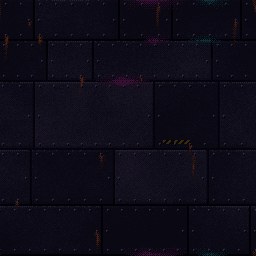
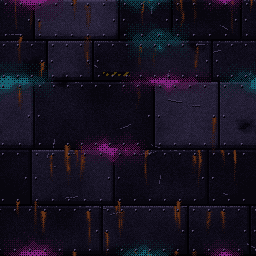
Grime up the Neon District steel so the plates read like Castle's stone
The steel tile gets a wider 22-color palette: each plate its own shade,
deeper seams and bevels, patchy dithered shadow, oil stains, scratches,
heavier rust running down from rivets and seams, and bigger, brighter
magenta and cyan staining. Contrast comes as much from deep shadow as from
bright detail, so faint labels still hold 4.8:1 or better on the average.

Each skin now scales the backdrop strengths by its own Texture::strength
(both 1.0, so Castle paints exactly as before). The skin_shots mock names
the steel when it renders Neon District.

Claude-Session: https://claude.ai/code/session_01GugngQZDNhaSXVJJZ8z7fH

diff --git a/scripts/gen-neon-tile.py b/scripts/gen-neon-tile.py
@@ -1,16 +1,17 @@
 #!/usr/bin/env python3
 """Generate the Neon District skin's steel tile: assets/skins/neon-steel.png.
 
-Pixel art in a limited palette (at most 20 colors): grimy riveted steel
-plates in near-black violet, bevelled seams, rivets along the plate edges,
-rust bleeding from a few rivets, one short strip of worn hazard tape, faint
-scanlines, magenta and cyan neon staining that bleeds out of some seams,
-ordered (Bayer 8x8) dithered shadow and fine grain. Kept dark and low
-contrast so labels on top stay readable.
+Pixel art in a limited palette (at most 24 colors): grimy riveted steel
+plates in near-black violet, each plate its own shade, deep bevelled seams,
+rivets along the plate edges, patchy dithered shadow, oil stains, bright
+scratches, rust streaks running down from rivets and seams, one short strip
+of worn hazard tape, faint scanlines, and magenta and cyan neon staining
+bleeding out of some seams. The grime is as much deep shadow as bright
+detail, so the tile's average stays dark and labels on top stay readable.
 
 Seamless on every edge by construction: plate rows and widths sum to the
 tile size, the noise is periodic, the scanline period divides the tile, and
-every stamp (rivet, rust, stain, tape) writes its pixels mod the tile size.
+every stamp (rivet, rust, oil, scratch, stain, tape) writes its pixels mod the tile size.
 Every pixel is picked from the fixed palette, never blended.
 
 Usage:
@@ -29,15 +30,15 @@ SIZE = 256
 SEED = 11
 
 # Palette, darkest first within each group.
-SEAM_DEEP = 0x020106
-SEAM = 0x06040C
-STEEL = [0x0A0812, 0x0E0B18, 0x13101E, 0x181424, 0x1D182A]
-EDGE = 0x262033
-RIVET = 0x342D44
-RUST = [0x1C0E0D, 0x2E150F, 0x442013]
-TAPE = 0x3A2A0A
-PINK = [0x220A20, 0x3A0E34]
-CYAN = [0x071E24, 0x0B3139]
+SEAM_DEEP = 0x010003
+SEAM = 0x05030A
+STEEL = [0x08060E, 0x0D0A17, 0x13101F, 0x1A1628, 0x221D32, 0x2B253D, 0x352E4A]
+EDGE = 0x433A58
+RIVET = 0x655A7E
+RUST = [0x1E0E0C, 0x331710, 0x4C2413, 0x643318]
+TAPE = 0x4E3A0C
+PINK = [0x2C0B2A, 0x521348, 0x80207A]
+CYAN = [0x08232A, 0x0E3C47, 0x15606F]
 
 BAYER8 = np.array(
     [
@@ -131,19 +132,25 @@ def build():
     n = len(plates)
     seam = plate < 0
     pid = np.where(seam, 0, plate)
-    tone = rng.uniform(0.9, 3.2, size=n)
+    # Grime draws from its own generator so the plate layout above stays put.
+    rng = np.random.default_rng(SEED + 1)
+    ys, xs = np.mgrid[0:SIZE, 0:SIZE]
 
-    # Steel value on the STEEL ramp (0..4), worn and grimy, in pools of shadow.
-    grime = fbm(rng, [(4, 1.0), (8, 0.6), (16, 0.4), (32, 0.25)])
-    pools = periodic_noise(rng, 2)
-    v = tone[pid] + (grime - 0.5) * 2.6
-    v -= np.clip(0.55 - pools, 0, None) * 3.0
-    v += rng.normal(0.0, 0.4, size=(SIZE, SIZE))  # fine grain
+    # Steel value on the STEEL ramp (0..6): each plate its own shade, worn
+    # and grimy, sunk in patchy pools of shadow.
+    tone = rng.uniform(0.9, 4.9, size=n)
+    grime = fbm(rng, [(4, 1.0), (8, 0.7), (16, 0.5), (32, 0.3)])
+    pools = fbm(rng, [(2, 1.0), (4, 0.6), (8, 0.3)])
+    v = tone[pid] + (grime - 0.5) * 3.6
+    v -= np.clip(0.52 - pools, 0, None) * 7.0
+    v += rng.normal(0.0, 0.45, size=(SIZE, SIZE))  # fine grain
     # Scanlines: every other row a touch darker (period 2 divides SIZE).
-    v -= (np.arange(SIZE)[:, None] % 2) * 0.35
+    v -= (ys % 2) * 0.35
     # Bevel: plates lit on top and left, in shade on the bottom and right.
-    v += np.where(ly < 2, 0.9, 0) + np.where(lx < 1, 0.5, 0)
-    v -= np.where(lyb < 2, 1.0, 0) + np.where(lxr < 1, 0.6, 0)
+    v += np.where(ly < 2, 1.6, 0) + np.where(lx < 1, 0.9, 0)
+    v -= np.where(lyb < 3, 1.8, 0) + np.where(lxr < 2, 1.2, 0)
+    # Grime settles along each plate's lower edge.
+    v -= np.clip(1 - lyb / 9.0, 0, None) * 1.2
 
     # Rivets inset along each plate's edges.
     rivets = []
@@ -157,45 +164,64 @@ def build():
             rivets.append(((x0 + 3) % SIZE, (y0 + dy) % SIZE))
             rivets.append(((x0 + inner_w - 5) % SIZE, (y0 + dy) % SIZE))
 
-    # Rust: streaks running down from a few rivets, edges wandering.
+    # Rust: streaks running down from rivets and from the top seam of some
+    # plates, edges wandering, heaviest at the source.
     wander = periodic_noise(rng, 16)
     rust = np.zeros((SIZE, SIZE))
-    pick = rng.choice(len(rivets), size=max(1, len(rivets) // 14), replace=False)
-    for k in pick:
-        rx, ry = rivets[k]
-        length = int(rng.integers(8, 30))
-        width = rng.uniform(1.6, 3.0)
+
+    def streak(rx, ry, length, width):
         for t in range(length):
-            py = (ry + 2 + t) % SIZE
-            fade = (1 - t / length) ** 0.9
-            sway = (wander[py, rx % SIZE] - 0.5) * 3
-            wdt = width * (0.6 + 0.6 * fade)
-            for dx in range(-4, 5):
+            py = (ry + t) % SIZE
+            fade = (1 - t / length) ** 0.7
+            sway = (wander[py, rx % SIZE] - 0.5) * 4
+            wdt = width * (0.5 + 0.7 * fade)
+            for dx in range(-5, 6):
                 d = abs(dx - sway)
                 if d > wdt:
                     continue
                 px = (rx + dx) % SIZE
-                rust[py, px] = max(rust[py, px], fade * (1 - d / (wdt + 0.5)))
-    rust *= 0.5 + periodic_noise(rng, 32)
+                rust[py, px] = max(rust[py, px], fade * (1 - d / (wdt + 0.6)))
 
-    # Neon staining: glow bleeding out of a few seams, fading with distance.
+    pick = rng.choice(len(rivets), size=max(1, len(rivets) // 6), replace=False)
+    for k in pick:
+        rx, ry = rivets[k]
+        streak(rx, ry + 2, int(rng.integers(14, 46)), rng.uniform(1.6, 3.4))
+    for i in rng.choice(n, size=max(1, n // 2), replace=False):
+        x0, y0, w, h = plates[i]
+        for _ in range(int(rng.integers(1, 3))):
+            sx = (x0 + int(rng.integers(6, max(7, w - 8)))) % SIZE
+            streak(sx, y0, int(rng.integers(12, 40)), rng.uniform(1.2, 2.6))
+    rust *= 0.45 + 0.9 * periodic_noise(rng, 32)
+
+    # Oil: dark blots pooled on a few plates.
+    oil = np.zeros((SIZE, SIZE))
+    blot = periodic_noise(rng, 64)
+    for _ in range(7):
+        cx, cy = rng.integers(0, SIZE, size=2)
+        r = rng.uniform(6, 14)
+        ddx = (xs - cx + SIZE // 2) % SIZE - SIZE // 2
+        ddy = (ys - cy + SIZE // 2) % SIZE - SIZE // 2
+        d = np.sqrt(ddx**2 + (ddy * 1.4) ** 2) / r
+        oil = np.maximum(oil, np.clip(1.2 - d + (blot - 0.5) * 0.9, 0, 1))
+    v -= oil * 3.2
+
+    # Neon staining: glow bleeding out of seams, fading with distance.
     stain_p = np.zeros((SIZE, SIZE))
     stain_c = np.zeros((SIZE, SIZE))
-    ys, xs = np.mgrid[0:SIZE, 0:SIZE]
     ragged = periodic_noise(rng, 32)
-    for i in rng.choice(n, size=5, replace=False):
+    for j, i in enumerate(rng.choice(n, size=7, replace=False)):
         x0, y0, w, h = plates[i]
         # Along this plate's bottom seam, over part of its length.
-        sx = x0 + int(rng.integers(0, max(1, w // 2)))
-        span = int(rng.integers(w // 3, w))
+        sx = x0 + int(rng.integers(0, max(1, w // 3)))
+        span = int(rng.integers(w // 2, w + 20))
         sy = (y0 + h - 1) % SIZE
         cx = (sx + span / 2) % SIZE
         ddx = (xs - cx + SIZE // 2) % SIZE - SIZE // 2
         ddy = (ys - sy + SIZE // 2) % SIZE - SIZE // 2
-        along = np.clip(1 - np.abs(ddx) / (span / 2), 0, 1) ** 0.6
-        reach = rng.uniform(5, 10)
-        glow = along * np.clip(1 - np.abs(ddy) / reach + (ragged - 0.5) * 0.5, 0, 1)
-        if i % 2 == 0:
+        along = np.clip(1 - np.abs(ddx) / (span / 2), 0, 1) ** 0.5
+        reach = rng.uniform(10, 20)
+        glow = along * np.clip(1 - np.abs(ddy) / reach + (ragged - 0.5) * 0.6, 0, 1)
+        if j % 2 == 0:
             stain_p = np.maximum(stain_p, glow)
         else:
             stain_c = np.maximum(stain_c, glow)
@@ -205,20 +231,35 @@ def build():
     # Compose.
     img = np.zeros((SIZE, SIZE, 3), dtype=np.uint8)
     img[:] = np.array([rgb(c) for c in STEEL], dtype=np.uint8)[idx]
-    # The lit top bevel catches a little light on the brighter plates.
-    img[(ly == 0) & ~seam & (idx >= 2) & (THRESH < 0.5)] = rgb(EDGE)
+    # The lit top bevel catches light on the brighter plates.
+    img[(ly == 0) & ~seam & (idx >= 3) & (THRESH < 0.6)] = rgb(EDGE)
     img[seam] = rgb(SEAM)
-    img[seam & ((pools < 0.45) | (THRESH < 0.3))] = rgb(SEAM_DEEP)
+    img[seam & ((pools < 0.5) | (THRESH < 0.4))] = rgb(SEAM_DEEP)
+    # Oil at its heart goes near black.
+    img[(oil > 0.75) & (THRESH < 0.7) & ~seam] = rgb(SEAM)
 
-    on = rust > THRESH * 0.9
-    img[on & (rust > 0.7)] = rgb(RUST[2])
-    img[on & (rust <= 0.7) & (rust > 0.35)] = rgb(RUST[1])
-    img[on & (rust <= 0.35)] = rgb(RUST[0])
+    # Scratches: short bright gouges at a slant, on plates only.
+    for _ in range(26):
+        x, y = rng.uniform(0, SIZE, size=2)
+        ang = rng.uniform(-0.5, 0.5) + (np.pi / 2 if rng.random() < 0.3 else 0)
+        for t in range(int(rng.integers(5, 18))):
+            px = int(x + np.cos(ang) * t) % SIZE
+            py = int(y + np.sin(ang) * t) % SIZE
+            if not seam[py, px] and rng.random() < 0.85:
+                img[py, px] = rgb(EDGE if t % 5 else STEEL[-1])
+                img[(py + 1) % SIZE, px] = rgb(STEEL[0])
+
+    on = rust > THRESH * 0.8
+    img[on & (rust > 0.75)] = rgb(RUST[3])
+    img[on & (rust <= 0.75) & (rust > 0.5)] = rgb(RUST[2])
+    img[on & (rust <= 0.5) & (rust > 0.25)] = rgb(RUST[1])
+    img[on & (rust <= 0.25)] = rgb(RUST[0])
 
     for stain, ramp in ((stain_p, PINK), (stain_c, CYAN)):
-        on = stain * 0.85 > THRESH
-        img[on & (stain <= 0.6)] = rgb(ramp[0])
-        img[on & (stain > 0.6)] = rgb(ramp[1])
+        on = stain * 0.95 > THRESH
+        img[on & (stain <= 0.45)] = rgb(ramp[0])
+        img[on & (stain > 0.45) & (stain <= 0.75)] = rgb(ramp[1])
+        img[on & (stain > 0.75)] = rgb(ramp[2])
 
     # Hazard tape, once: a short strip of worn diagonal stripes across one
     # plate's lower edge, half the stripes scuffed away.
@@ -244,6 +285,7 @@ def build():
         img[(ry + 1) % SIZE, rx % SIZE] = rgb(EDGE)
         img[(ry + 1) % SIZE, (rx + 1) % SIZE] = rgb(SEAM)
         img[(ry + 2) % SIZE, (rx + 1) % SIZE] = rgb(SEAM_DEEP)
+        img[(ry + 2) % SIZE, rx % SIZE] = rgb(SEAM)
 
     return Image.fromarray(img, "RGB")
 
@@ -257,7 +299,7 @@ def main():
     os.makedirs(os.path.dirname(path), exist_ok=True)
     tile = build()
     colors = len(tile.getcolors(1 << 16))
-    assert colors <= 20, f"{colors} colors"
+    assert colors <= 24, f"{colors} colors"
     tile.save(path, optimize=True)
     print(f"wrote {path} ({SIZE}x{SIZE}, {colors} colors)")
     if args.preview:

diff --git a/src/skin.rs b/src/skin.rs
@@ -43,9 +43,9 @@ pub fn lamp() -> Option<Lamp> {
     active().and_then(|t| t.lamp)
 }
 
-/// Texture strength per surface: low enough that the stone reads as a calm
-/// ground behind labels, not a pattern fighting them (see docs/THEME.md for
-/// the contrast numbers).
+/// Texture strength per surface, scaled by the skin's own `strength`: low
+/// enough that the texture reads as a calm ground behind labels, not a
+/// pattern fighting them (see docs/THEME.md for the contrast numbers).
 pub const RAIL: f32 = 0.6;
 /// A strip of tabs or a drawer header.
 pub const STRIP: f32 = 0.6;
@@ -75,7 +75,7 @@ pub fn backdrop(opacity: f32) -> Option<impl IntoElement> {
             .top_0()
             .left_0()
             .size_full()
-            .opacity(opacity)
+            .opacity((opacity * tex.strength).min(1.0))
             .child(
                 canvas(
                     |_, _, _| {},
@@ -441,7 +441,18 @@ mod shots {
             .child(chip("scratch · zsh"))
     }
 
+    /// The mock's copy names the skin on screen; Neon District gets its own,
+    /// every other scheme keeps Castle's.
+    fn neon() -> bool {
+        lamp() == Some(Lamp::Tube)
+    }
+
     fn dock() -> impl IntoElement {
+        let (title, line) = if neon() {
+            ("# Neon District skin", "- steel on chrome only")
+        } else {
+            ("# Castle skin", "- stone on chrome only")
+        };
         let tab = |name: &str, open: bool| {
             div()
                 .h_full()
@@ -487,8 +498,8 @@ mod shots {
                     .p_2()
                     .text_xs()
                     .text_color(P::text_dim())
-                    .child("# Castle skin")
-                    .child("- stone on chrome only")
+                    .child(title)
+                    .child(line)
                     .child("- file bodies stay flat"),
             )
     }
@@ -635,6 +646,17 @@ mod shots {
 
     fn chat_view(id: &str) -> impl IntoElement {
         let torches = torches();
+        let (ask, reply) = if neon() {
+            (
+                "Steel is on the chat rail now. Run the shots?",
+                "yes, neon and a flat one",
+            )
+        } else {
+            (
+                "Stone is on the chat rail now. Run the shots?",
+                "yes, castle and a flat one",
+            )
+        };
         let row = |name: &str, on: bool, note: &str| {
             div()
                 .px_3()
@@ -842,11 +864,8 @@ mod shots {
                             .flex()
                             .flex_col()
                             .gap_2()
-                            .child(bubble(
-                                false,
-                                "Stone is on the chat rail now. Run the shots?",
-                            ))
-                            .child(bubble(true, "yes, castle and a flat one"))
+                            .child(bubble(false, ask))
+                            .child(bubble(true, reply))
                             .child(bubble(false, "Both written to shots/.")),
                     )
                     .child(composer),

diff --git a/crates/seance-core/src/schemes.rs b/crates/seance-core/src/schemes.rs
@@ -61,6 +61,9 @@ pub struct Texture {
     /// A pixel lamp in each pane's title strip, lit by the pane's state;
     /// `None` hangs none.
     pub lamp: Option<Lamp>,
+    /// Scales every surface's backdrop strength (`src/skin.rs`), so each
+    /// skin can sit at its own weight; capped at fully opaque.
+    pub strength: f32,
 }
 
 #[derive(Debug)]
@@ -223,6 +226,7 @@ pub const CASTLE_STONE: Texture = Texture {
     size: 256,
     frame: 0x141415,
     lamp: Some(Lamp::Torch),
+    strength: 1.0,
 };
 
 // Neon District: grimy riveted steel in near-black violet, hot neon for the
@@ -239,6 +243,7 @@ pub const NEON_STEEL: Texture = Texture {
     size: 256,
     frame: 0x1B1A26,
     lamp: Some(Lamp::Tube),
+    strength: 1.0,
 };
 
 /// Every scheme, in menu order.

diff --git a/docs/THEME.md b/docs/THEME.md
@@ -85,24 +85,31 @@ with square corners; schemes without a texture paint exactly as before
 (rounded frame, `border` color).
 
 Neon District is the second skin: a 256 px tile of riveted steel plates in
-near-black violet (17 colors) with bevelled seams, rust bleeding from a few
-rivets, one short strip of worn hazard tape, faint scanlines and magenta and
-cyan neon staining out of some seams, from `scripts/gen-neon-tile.py` (run
-it with `uv run --offline --no-project --with numpy --with pillow python
-scripts/gen-neon-tile.py`). It covers the same surfaces as Castle, Chat
-included, at the same backdrop strengths; its pane frame is dark steel
-`#1B1A26`. Its accent is magenta, its second accent cyan, and `text_faint`
-is lifted to `#7C80AA` so faint labels hold 4.5:1 on the steel.
+near-black violet (22 colors), each plate its own shade, with deep bevelled
+seams, rivet caps, patchy dithered shadow, oil stains, bright scratches,
+rust streaks running down from rivets and seams, one short strip of worn
+hazard tape, faint scanlines and magenta and cyan neon staining that bleeds
+well out of some seams, from `scripts/gen-neon-tile.py` (run it with `uv
+run --offline --no-project --with numpy --with pillow python
+scripts/gen-neon-tile.py`). The grime gets its contrast from deep shadow as
+much as from bright detail, so the tile's average stays dark enough for
+labels. It covers the same surfaces as Castle, Chat included. Each skin
+scales the backdrop strengths by its `Texture::strength`; both skins use
+1.0, so Neon District sits at Castle's strengths. Its pane frame is dark
+steel `#1B1A26`. Its accent is magenta, its second accent cyan, and
+`text_faint` is lifted to `#7C80AA` so faint labels hold 4.5:1 on the steel.
 
 Label contrast on the skins (WCAG ratio against the textured ground: the
 mean ground, then its 95th-percentile brightest pixel; the tile math and
-the rendered shots agree to 0.1):
+the rendered shots agree to 0.1 on the mean). The brightest 5% of the neon
+ground (rivet caps, scratches, neon stains) dips faint labels to about 4.1
+to 4.4; the average holds 4.8 or better:
 
 | surface | scheme | text | text_dim | text_faint |
 |---------|--------|------|----------|------------|
-| rail (0.6) | neon-district | 16.1 / 15.5 | 6.4 / 6.1 | 5.2 / 5.0 |
-| title strip (0.55) | neon-district | 16.2 / 15.6 | 6.4 / 6.2 | 5.2 / 5.0 |
-| active title (0.3) | neon-district | 15.3 / 14.9 | 6.1 / 5.9 | 4.9 / 4.8 |
+| rail (0.6) | neon-district | 15.8 / 13.2 | 6.2 / 5.2 | 5.1 / 4.2 |
+| title strip (0.55) | neon-district | 15.8 / 13.5 | 6.3 / 5.3 | 5.1 / 4.3 |
+| active title (0.3) | neon-district | 15.1 / 13.8 | 6.0 / 5.4 | 4.8 / 4.4 |
 | rail (0.6) | castle | 11.1 / 9.3 | 6.0 / 5.1 | 3.0 / 2.5 |
 | title strip (0.55) | castle | 11.0 / 9.4 | 6.0 / 5.1 | 3.0 / 2.5 |
 | active title (0.3) | castle | 9.4 / 8.6 | 5.1 / 4.7 | 2.5 / 2.3 |
